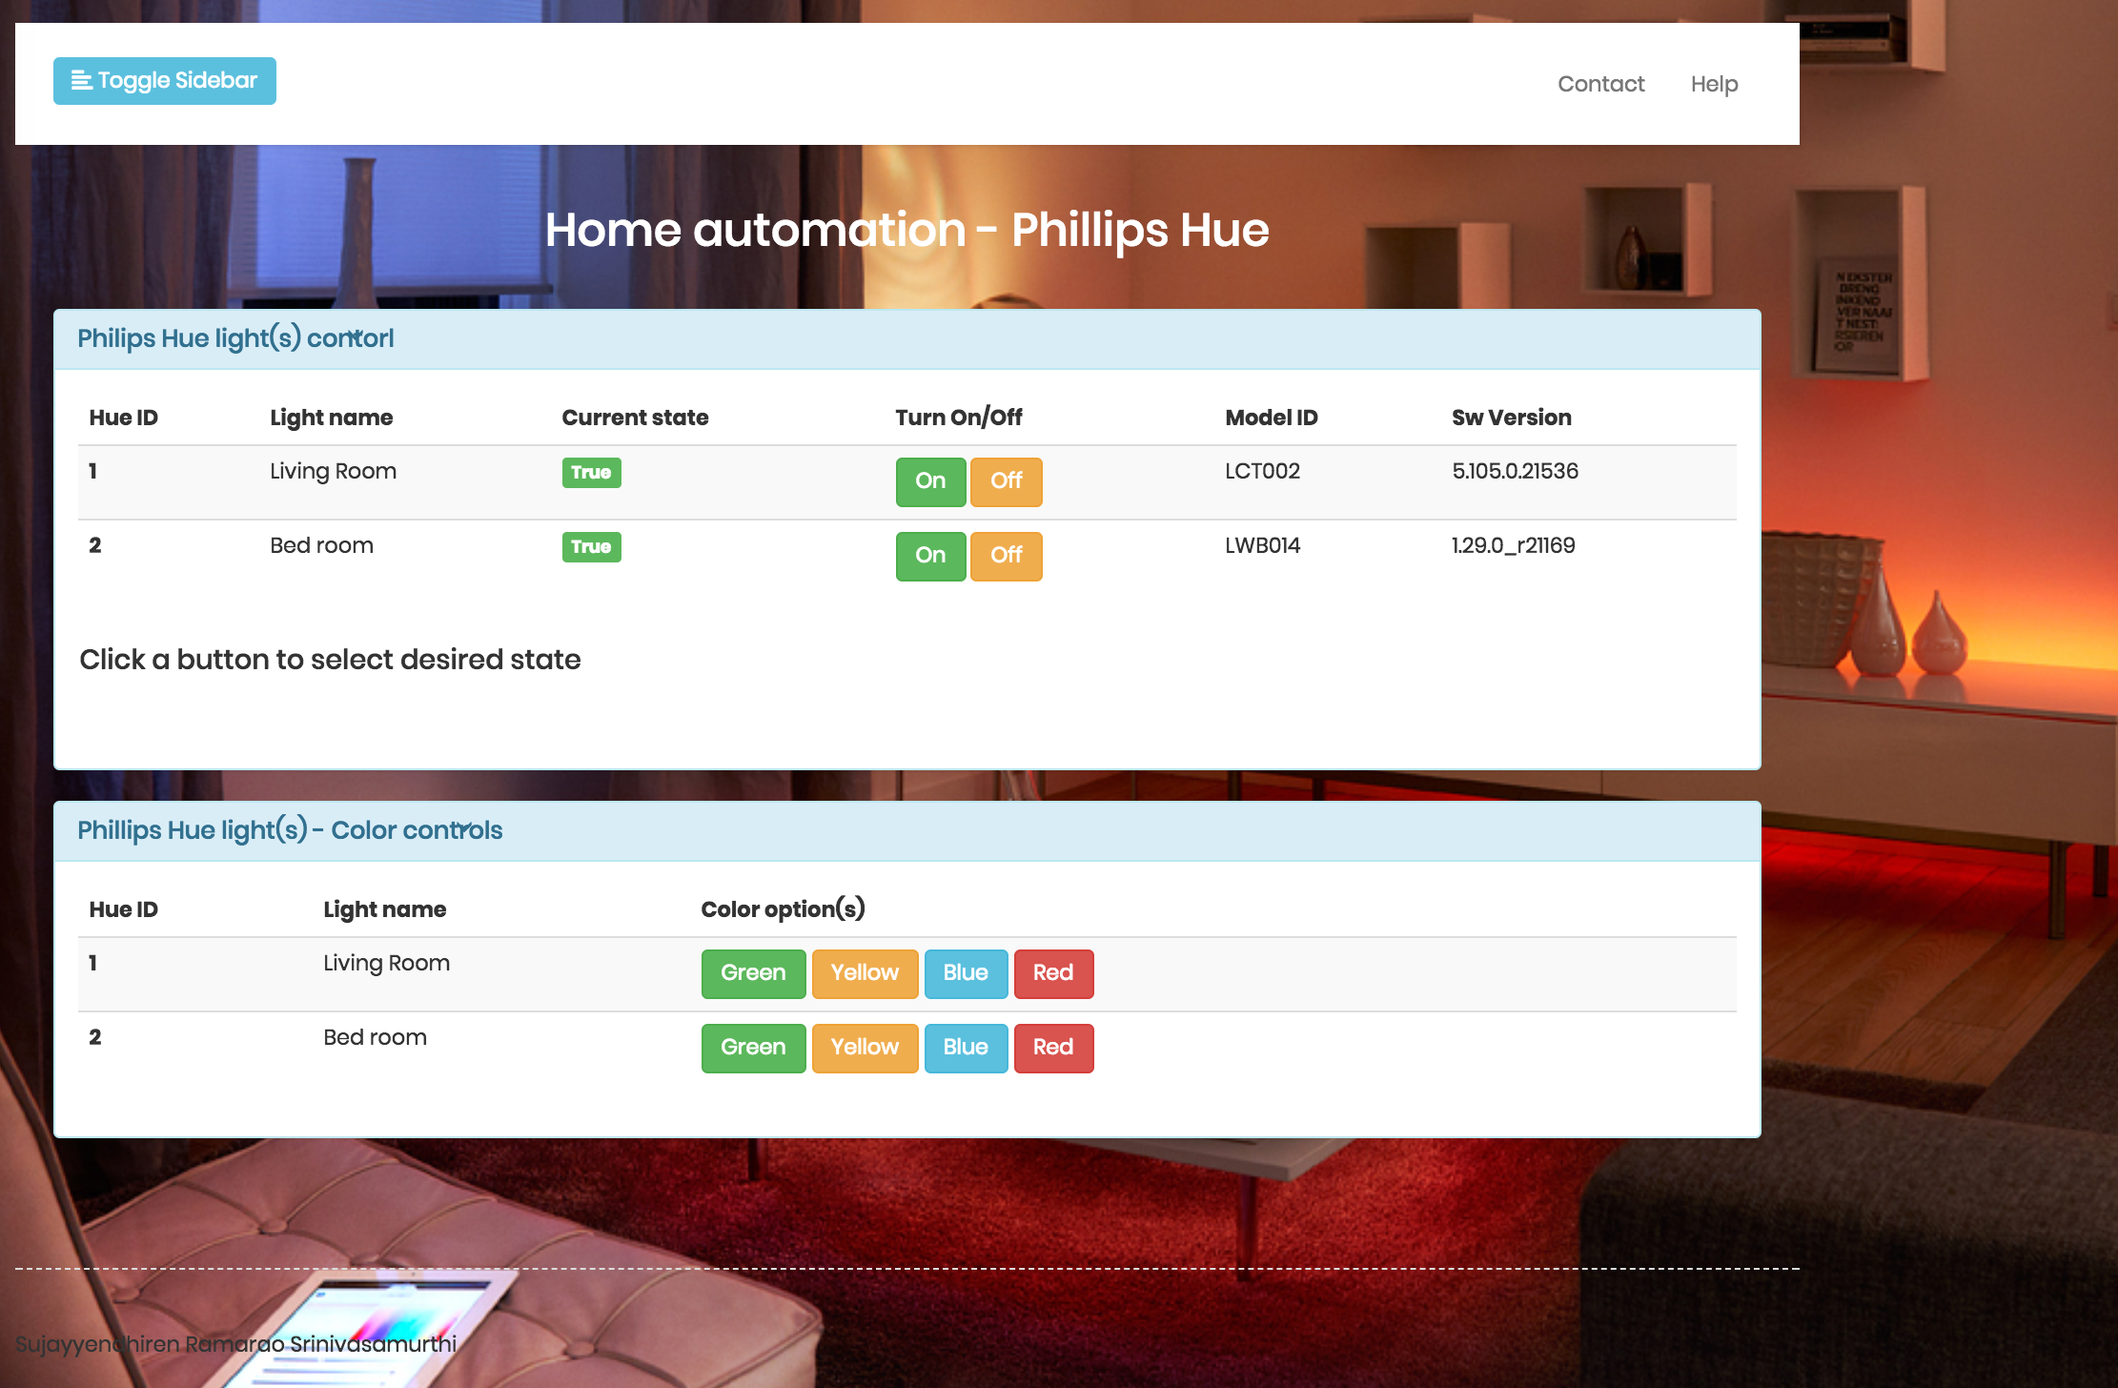
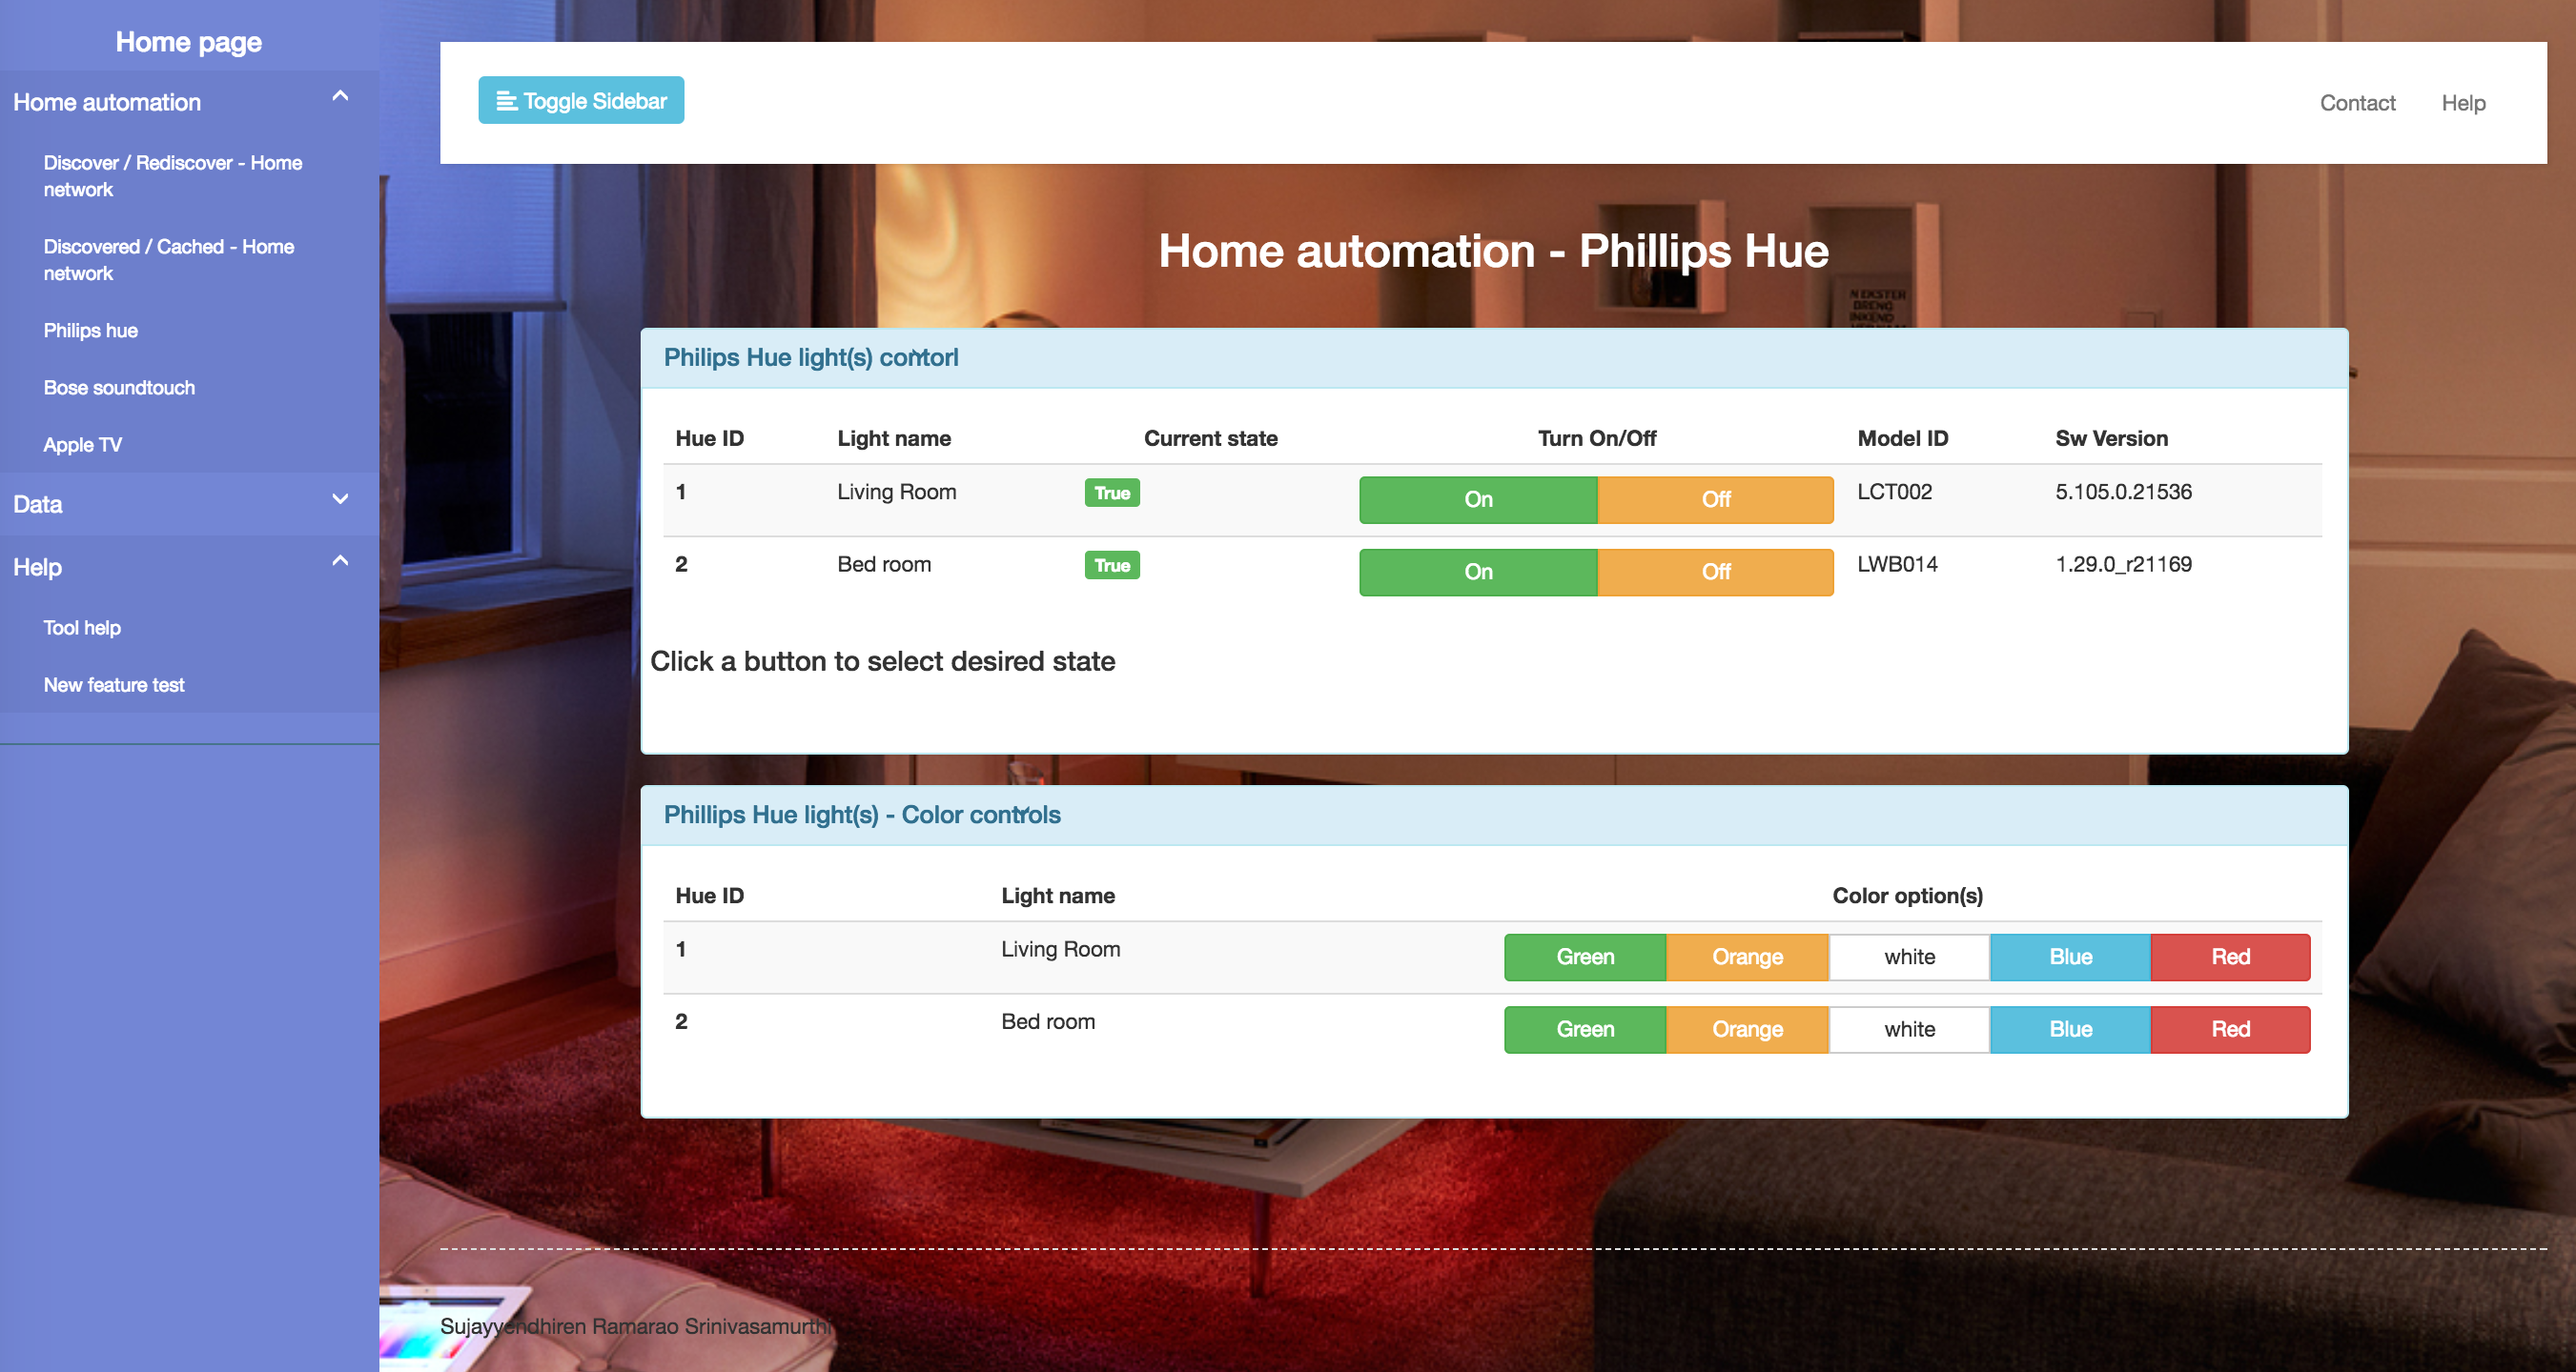
Improvements in hue color selection option. Some colors need better hue integer values. Shall be updated soon.

diff --git a/templates/philips.html b/templates/philips.html
@@ -27,8 +27,8 @@
                             <tr>
                                 <th scope="col">Hue ID</th>
                                 <th scope="col">Light name</th>
-                                <th scope="col">Current state</th>
-                                <th scope="col">Turn On/Off</th>
+                                <th scope="col" class="text-center">Current state</th>
+                                <th scope="col" class="text-center">Turn On/Off</th>
                                 <th scope="col">Model ID</th>
                                 <th scope="col">Sw Version</th>
                             </tr>
@@ -39,9 +39,11 @@
                                 <th scope="row">{{id}}</th>
                                 <td>{{lights[id].name}}</td>
                                 <td><span class="label label-{{lights[id].color}}">{{lights[id].state}}</span></td>
-                                <td>
-                                    <a class="btn btn-success btn-circle" href="/philips/{{id}}1">On</a>
-                                    <a class="btn btn-warning btn-circle" href="/philips/{{id}}0">Off</a>
+                                <td width="30%" class="text-center">
+                                    <div class="btn-group btn-group-justified">
+                                        <a class="btn btn-success btn-circle" href="/philips/{{id}}1">On</a>
+                                        <a class="btn btn-warning btn-circle" href="/philips/{{id}}0">Off</a>
+                                    </div>
                                 </td>
                                 <td>{{lights[id].modelid}}</td>
                                 <td>{{lights[id].swversion}}</td>
@@ -77,7 +79,7 @@
                                 <tr>
                                     <th scope="col">Hue ID</th>
                                     <th scope="col">Light name</th>
-                                    <th scope="col">Color option(s)</th>
+                                    <th scope="col" class="text-center">Color option(s)</th>
                                 </tr>
                             </thead>
                             <tbody>
@@ -85,11 +87,14 @@
                                 <tr>
                                     <th scope="row">{{id}}</th>
                                     <td>{{lights[id].name}}</td>
-                                    <td>
-                                        <a class="btn btn-success btn-circle" href="/philips/{{id}}/25500">Green</a>
-                                        <a class="btn btn-warning btn-circle" href="/philips/{{id}}/10000">Yellow</a>
-                                        <a class="btn btn-info btn-circle" href="/philips/{{id}}/46920">Blue</a>
-                                        <a class="btn btn-danger btn-circle" href="/philips/{{id}}/0">Red</a>
+                                    <td width="50%" class="text-center">
+                                        <div class="btn-group btn-group-justified">
+                                            <a class="btn btn-success btn-circle" href="/philips/{{id}}/25500">Green</a>
+                                            <a class="btn btn-warning btn-circle" href="/philips/{{id}}/10000">Orange</a>
+                                            <a class="btn btn-default btn-circle" href="/philips/{{id}}/18000">white</a>
+                                            <a class="btn btn-info btn-circle" href="/philips/{{id}}/46920">Blue</a>
+                                            <a class="btn btn-danger btn-circle" href="/philips/{{id}}/0">Red</a>
+                                        </div>
                                     </td>
                                 </tr>
                                 {% endfor %}

diff --git a/static/css/style3.css b/static/css/style3.css
@@ -1,20 +1,29 @@
-/*
-    DEMO STYLE
-*/
 @import "https://fonts.googleapis.com/css?family=Poppins:300,400,500,600,700";
 
+/*
+Thanks to:
+http://css-tricks.com/perfect-full-page-background-image
+
+Photo:
+http://www.publicdomainpictures.net/view-image.php?image=44399
+*/
+
 body { 
-    background: url('/static/img/phillips.jpg') no-repeat center center fixed;
+    background: url('/static/img/phillips.jpg') no-repeat center center fixed; 
     -webkit-background-size: cover;
     -moz-background-size: cover;
     -o-background-size: cover;
     background-size: cover;
-    font-family: 'Poppins', sans-serif;
-  }
+}
   
 .container{
   padding: 25px;   
-  }   
+}   
+
+.alert {
+    padding: 5px !important;
+    display: inline-block;
+}
 
 p {
     font-family: 'Poppins', sans-serif;
@@ -55,14 +64,13 @@ a, a:hover, a:focus {
 /* ---------------------------------------------------
     SIDEBAR STYLE
 ----------------------------------------------------- */
-.wrapper {
-    display: flex;
-    align-items: stretch;
-}
-
 #sidebar {
-    min-width: 250px;
-    max-width: 250px;
+    width: 250px;
+    position: fixed;
+    top: 0;
+    left: 0;
+    height: 100vh;
+    z-index: 999;
     background: #7386D5;
     color: #fff;
     transition: all 0.3s;
@@ -137,27 +145,32 @@ ul.CTAs a {
     border-radius: 5px;
     margin-bottom: 5px;
 }
-
 a.download {
     background: #fff;
     color: #7386D5;
 }
-
 a.article, a.article:hover {
     background: #6d7fcc !important;
     color: #fff !important;
 }
 
 
-
 /* ---------------------------------------------------
     CONTENT STYLE
 ----------------------------------------------------- */
 #content {
-    padding: 20px;
+    width: calc(100% - 250px);
+    padding: 40px;
     min-height: 100vh;
     transition: all 0.3s;
+    position: absolute;
+    top: 0;
+    right: 0;
 }
+#content.active {
+    width: 100%;
+}
+
 
 /* ---------------------------------------------------
     MEDIAQUERIES
@@ -168,6 +181,12 @@ a.article, a.article:hover {
     }
     #sidebar.active {
         margin-left: 0;
+    }
+    #content {
+        width: 100%;
+    }
+    #content.active {
+        width: calc(100% - 250px);
     }
     #sidebarCollapse span {
         display: none;

diff --git a/templates/basetemplate.html b/templates/basetemplate.html
@@ -9,7 +9,9 @@
             {% block title %}
             {% endblock %}
         </title>>
-        <link href="https://maxcdn.bootstrapcdn.com/bootstrap/3.3.7/css/bootstrap.min.css" rel="stylesheet" />
+        <link rel="stylesheet" href="https://maxcdn.bootstrapcdn.com/bootstrap/3.3.7/css/bootstrap.min.css">
+        <script src="https://ajax.googleapis.com/ajax/libs/jquery/3.2.1/jquery.min.js"></script>
+        <script src="https://maxcdn.bootstrapcdn.com/bootstrap/3.3.7/js/bootstrap.min.js"></script>
         <link href="https://cdnjs.cloudflare.com/ajax/libs/bootstrap-select/1.10.0/css/bootstrap-select.min.css" rel="stylesheet" />
         {% block head %}
         {% endblock %}
